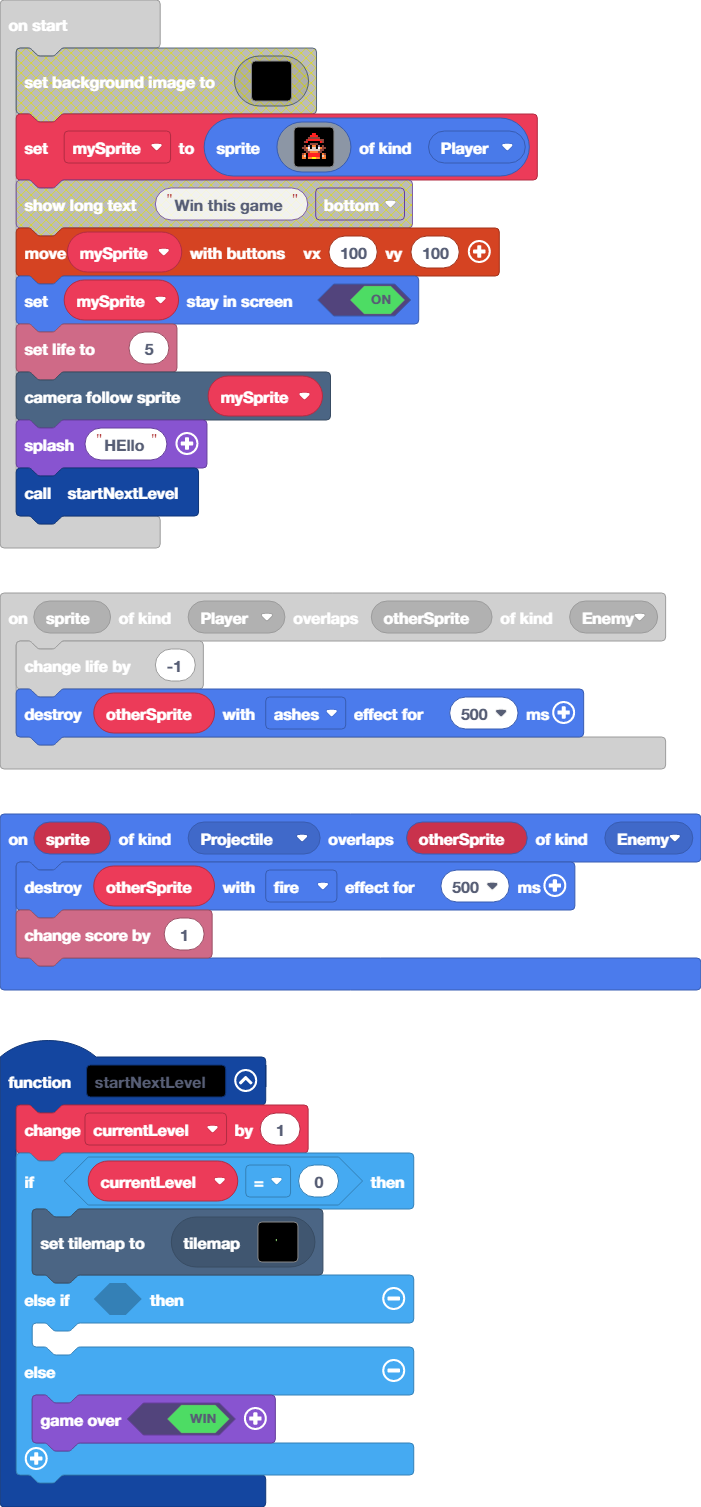
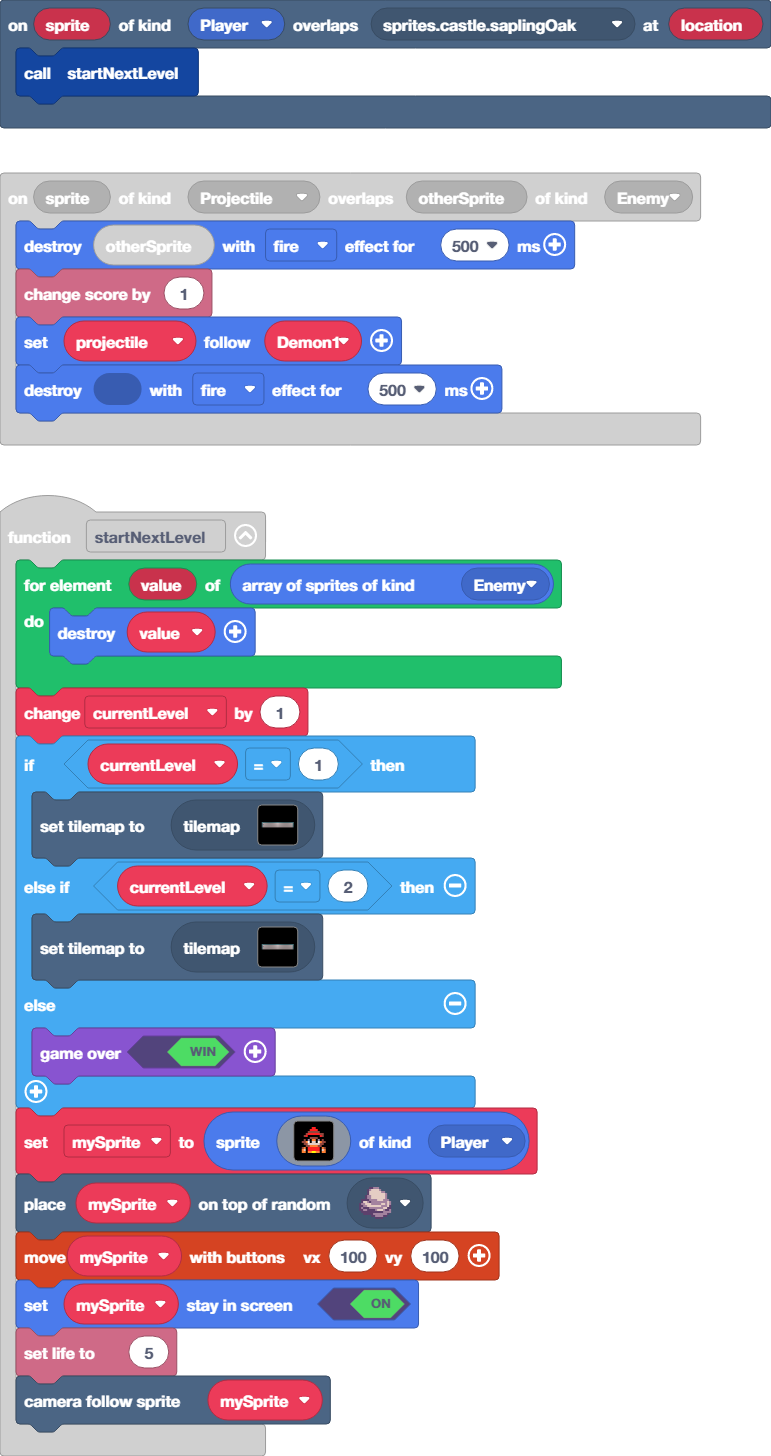
Update main.blocks, main.ts, tilemap.g.jres, tilemap.g.ts

diff --git a/tilemap.g.ts b/tilemap.g.ts
@@ -5,14 +5,52 @@ namespace myTiles {
 
     helpers._registerFactory("tilemap", function(name: string) {
         switch(helpers.stringTrim(name)) {
+            case "level2":
+            case "level2":return tiles.createTilemap(hex`1000100000000000000000000000000000000000000000000000000000000000000000000000000000000000000000000000000000000000000000000000000000000000000000000000000000000000000000000000000000000000000000000000000000000000000000000000000000000000000000000000000000000000000000000000000000000000000000000000000000000000000000000000000000000000000000000000000000000000000000000000000000000000000000000000000000000000000000000000000000000000000000000000000000000000000000000000000000000000000000000000000000000000000000000000000000000000`, img`
+. . . . . . . . . . . . . . . . 
+. . . . . . . . . . . . . . . . 
+. . . . . . . . . . . . . . . . 
+. . . . . . . . . . . . . . . . 
+. . . . . . . . . . . . . . . . 
+. . . . . . . . . . . . . . . . 
+. . . . . . . . . . . . . . . . 
+. . . . . . . . . . . . . . . . 
+. . . . . . . . . . . . . . . . 
+. . . . . . . . . . . . . . . . 
+. . . . . . . . . . . . . . . . 
+. . . . . . . . . . . . . . . . 
+. . . . . . . . . . . . . . . . 
+. . . . . . . . . . . . . . . . 
+. . . . . . . . . . . . . . . . 
+. . . . . . . . . . . . . . . . 
+`, [myTiles.transparency16], TileScale.Sixteen);
+            case "level3":
+            case "level3":return tiles.createTilemap(hex`1000100000000000000000000000000000000000000000000000000000000000000000000000000000000000000000000000000000000000000000000000000000000000000000000000000000000000000000000000000000000000000000000000000000000000000000000000000000000000000000000000000000000000000000000000000000000000000000000000000000000000000000000000000000000000000000000000000000000000000000000000000000000000000000000000000000000000000000000000000000000000000000000000000000000000000000000000000000000000000000000000000000000000000000000000000000000000`, img`
+. . . . . . . . . . . . . . . . 
+. . . . . . . . . . . . . . . . 
+. . . . . . . . . . . . . . . . 
+. . . . . . . . . . . . . . . . 
+. . . . . . . . . . . . . . . . 
+. . . . . . . . . . . . . . . . 
+. . . . . . . . . . . . . . . . 
+. . . . . . . . . . . . . . . . 
+. . . . . . . . . . . . . . . . 
+. . . . . . . . . . . . . . . . 
+. . . . . . . . . . . . . . . . 
+. . . . . . . . . . . . . . . . 
+. . . . . . . . . . . . . . . . 
+. . . . . . . . . . . . . . . . 
+. . . . . . . . . . . . . . . . 
+. . . . . . . . . . . . . . . . 
+`, [myTiles.transparency16], TileScale.Sixteen);
             case "level1":
[1 lines of base64/hex data omitted]
-. . . . . . . . . . . . . . . . . . . . . . . . . . . . . . 
-. . . . . . . . . . . . . . . . . . . . . . . . . . . . . . 
-. . . . . . . . . . . . . . . . . . . . . . . . . . . . . . 
-. . . . . . . . . . . . . . . . . . . . . . . . . . . . . . 
-. . . . . . . . . . . . . . . . . . . . . . . . . . . . . . 
-`, [myTiles.transparency16,sprites.castle.tileGrass2], TileScale.Sixteen);
[1 lines of base64/hex data omitted]
+2 2 2 2 2 2 2 2 2 2 2 2 2 2 2 2 2 2 2 2 2 2 2 2 2 2 2 2 2 2 
+2 . . . . . . . . . . . . . . . . . . . . . . . . . . . . 2 
+2 . . . . . . . . . . . . . . . . . . . . . . . . . . . . 2 
+2 . . . . . . . . . . . . . . . . . . . . . . . . . . . . 2 
+2 . . . . . . . . . . . . . . . . . . . . . . . . . . . . 2 
+`, [myTiles.transparency16,sprites.dungeon.greenOuterSouth0,sprites.dungeon.greenOuterNorth1,sprites.dungeon.greenOuterEast0,sprites.dungeon.greenOuterWest1,sprites.dungeon.floorLightMoss,sprites.castle.rock0], TileScale.Sixteen);
         }
         return null;
     })

diff --git a/main.ts b/main.ts
@@ -20,11 +20,14 @@ controller.A.onEvent(ControllerButtonEvent.Pressed, function () {
     projectile.startEffect(effects.warmRadial)
 })
 function startNextLevel () {
+    for (let value of sprites.allOfKind(SpriteKind.Enemy)) {
+        value.destroy()
+    }
     currentLevel += 1
-    if (currentLevel == 0) {
+    if (currentLevel == 1) {
         tiles.setCurrentTilemap(tilemap`level1`)
-    } else if (false) {
-    	
+    } else if (currentLevel == 2) {
+        tiles.setCurrentTilemap(tilemap`level1`)
     } else {
         game.over(true)
     }
@@ -46,6 +49,7 @@ function startNextLevel () {
         . . . . . f f f f f f . . . . . 
         . . . . . f f . . f f . . . . . 
         `, SpriteKind.Player)
+    tiles.placeOnRandomTile(mySprite, sprites.castle.rock0)
     controller.moveSprite(mySprite, 100, 100)
     mySprite.setStayInScreen(true)
     info.setLife(5)
@@ -55,9 +59,14 @@ info.onLifeZero(function () {
     mySprite.destroy(effects.ashes, 500)
     game.over(false)
 })
+scene.onOverlapTile(SpriteKind.Player, sprites.castle.saplingOak, function (sprite, location) {
+    startNextLevel()
+})
 sprites.onOverlap(SpriteKind.Projectile, SpriteKind.Enemy, function (sprite, otherSprite) {
-    otherSprite.destroy(effects.fire, 500)
+    otherSprite.destroy()
     info.changeScoreBy(1)
+    projectile.follow(Demon1)
+    null.destroy()
 })
 sprites.onOverlap(SpriteKind.Player, SpriteKind.Enemy, function (sprite, otherSprite) {
     info.changeLifeBy(-1)
